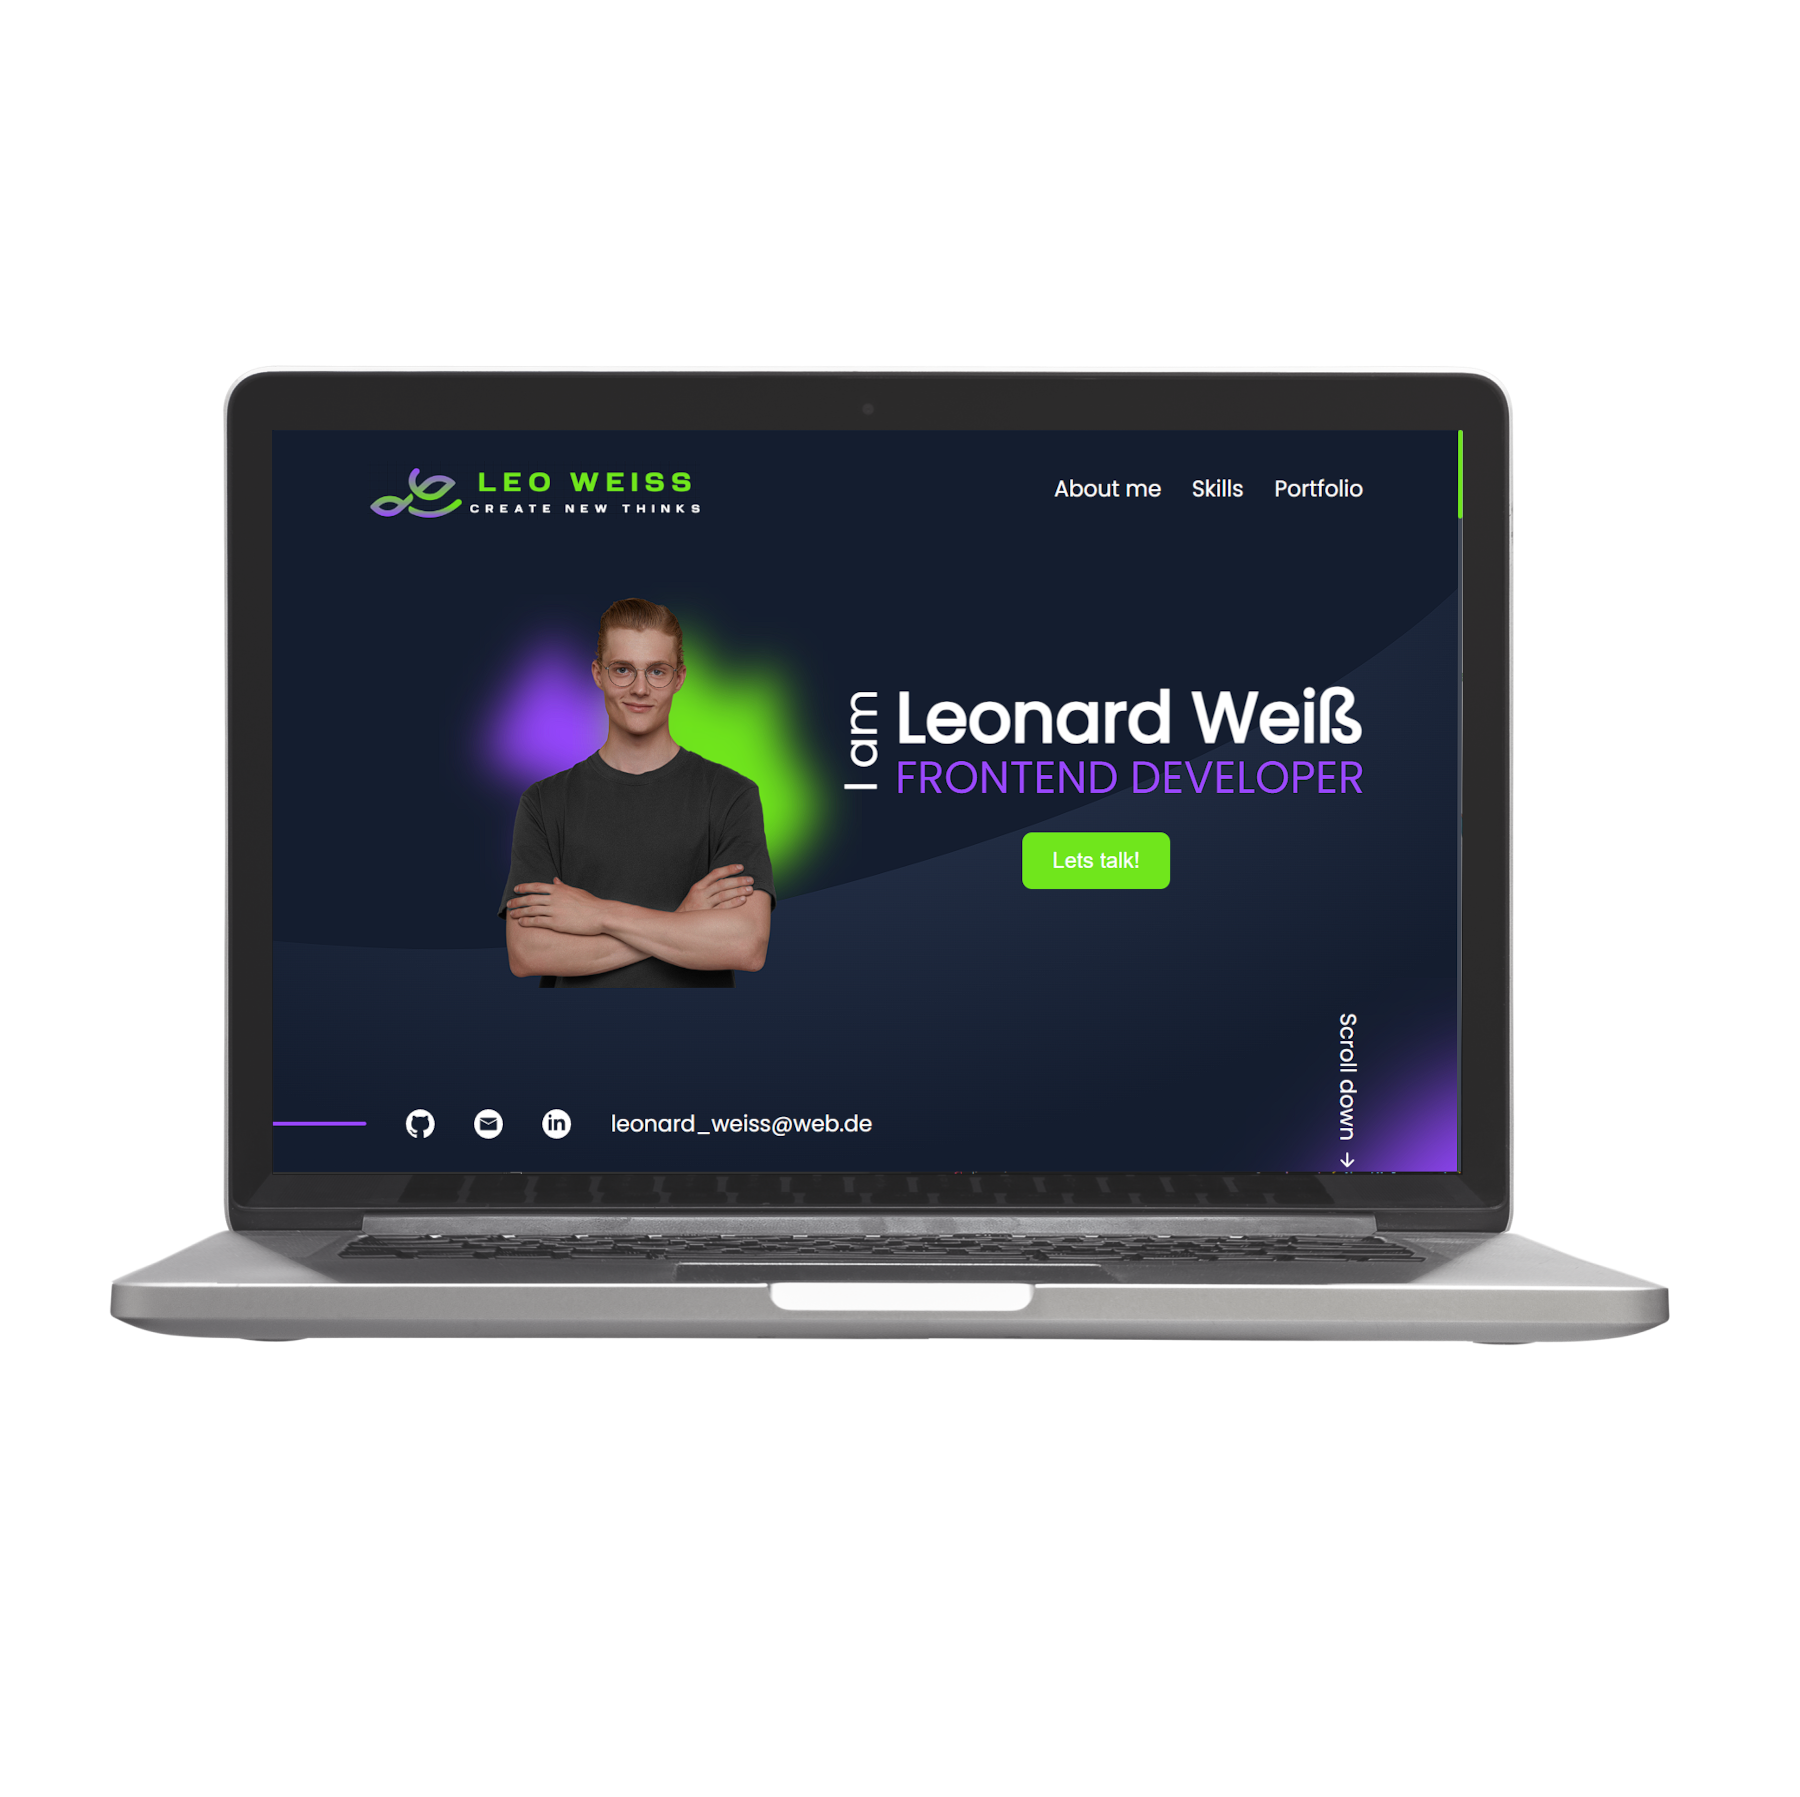
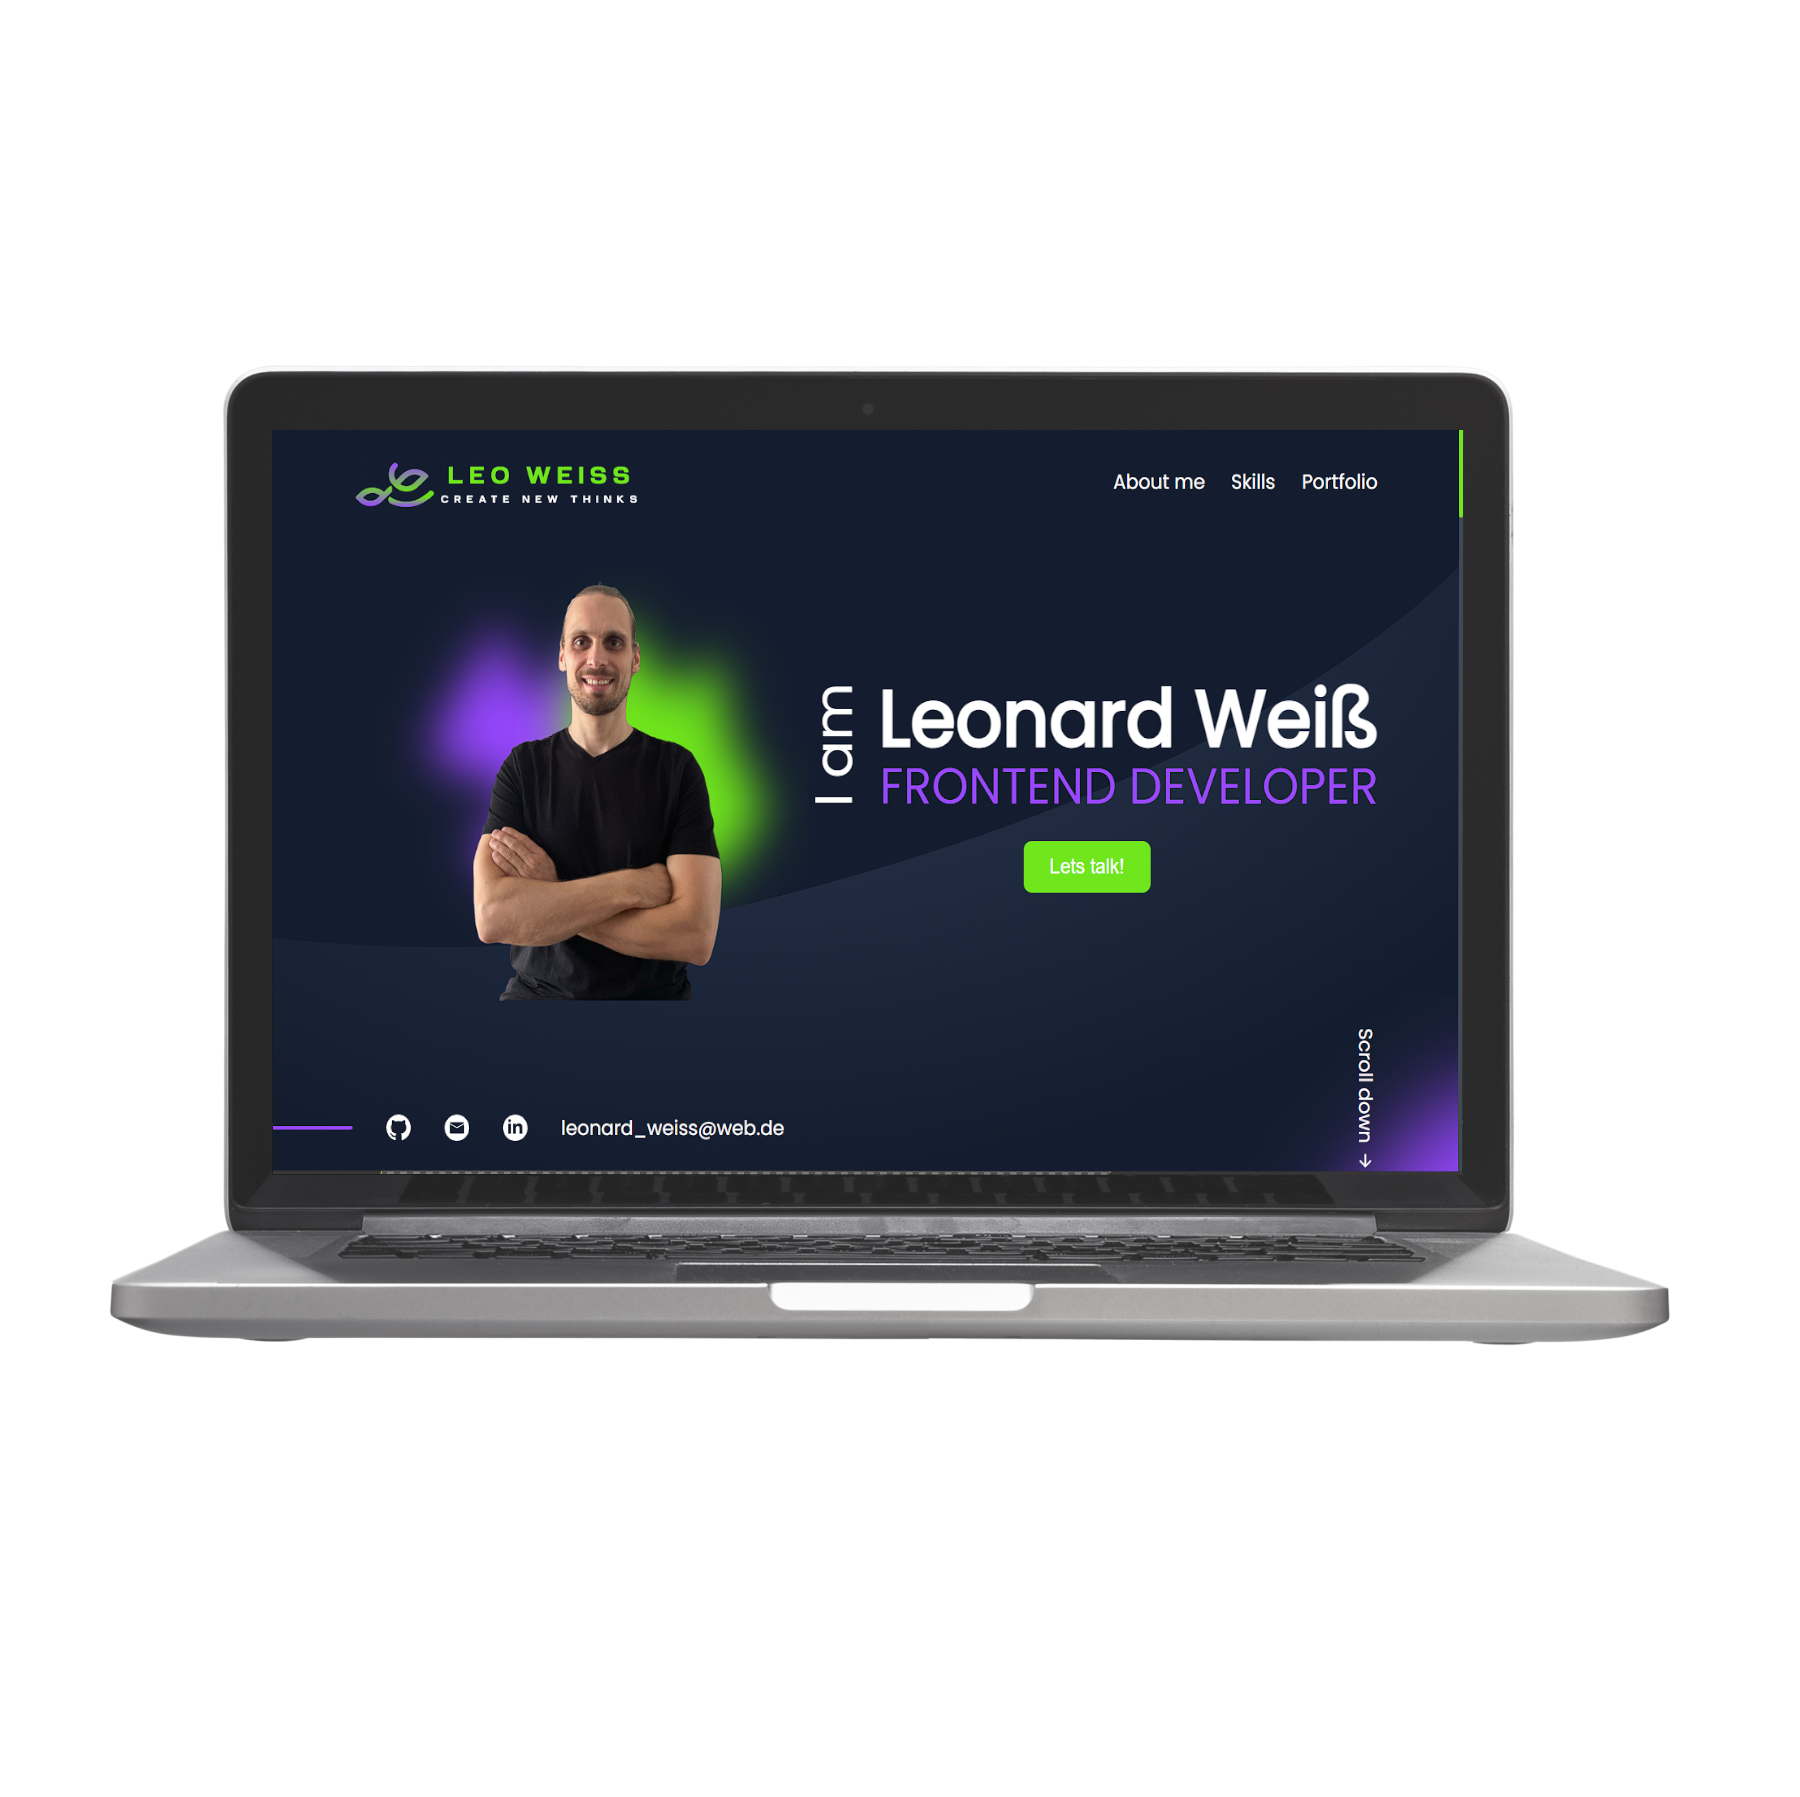
add profile images

diff --git a/src/app/portfolio-page/landing-page/landing-page.component.html b/src/app/portfolio-page/landing-page/landing-page.component.html
@@ -1,7 +1,7 @@
 <section id="section-landing-page">
     <div id="landing-page-introduction">
         <div id="landing-page-wrapper-profile-img">
-            <img id="landing-page-profile-img" src="assets/images/profile/hero_character_photo.png" alt="profile-img">
+            <img id="landing-page-profile-img" src="assets/images/profile/profile_img_front.png" alt="profile-img">
         </div>
         <div id="landing-page-wrapper-introduction-text">
             <div id="landing-page-wrapper-text">

diff --git a/src/app/portfolio-page/about-me/about-me.component.html b/src/app/portfolio-page/about-me/about-me.component.html
@@ -14,7 +14,7 @@
         </div>
     </div>
     <div id="about-me-profile-image-wrapper" class="hide-mobile">
-        <img id="about-me-profile-image" src="assets/images/profile/profile_photo.png" alt="profile-img">
+        <img id="about-me-profile-image" src="assets/images/profile/profile_img_side.png" alt="profile-img">
         <div id="vertical-line"></div>
     </div>
 </section>
